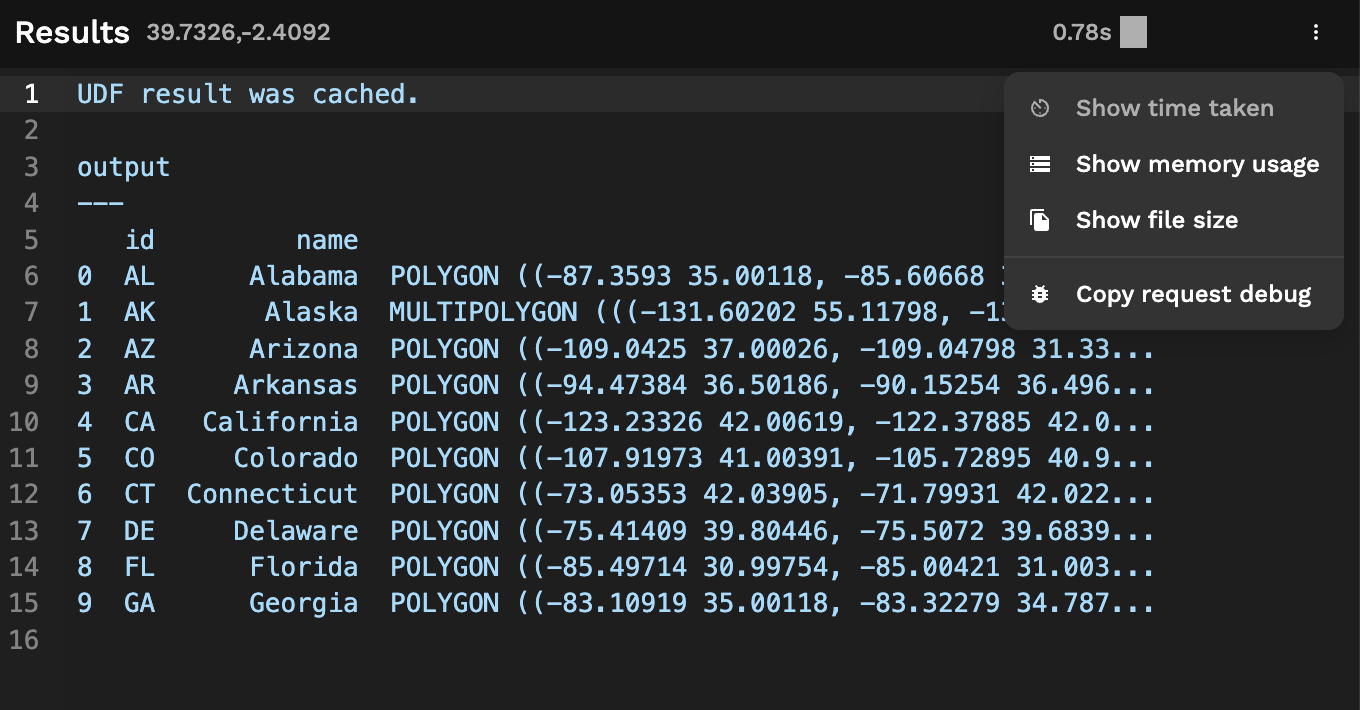
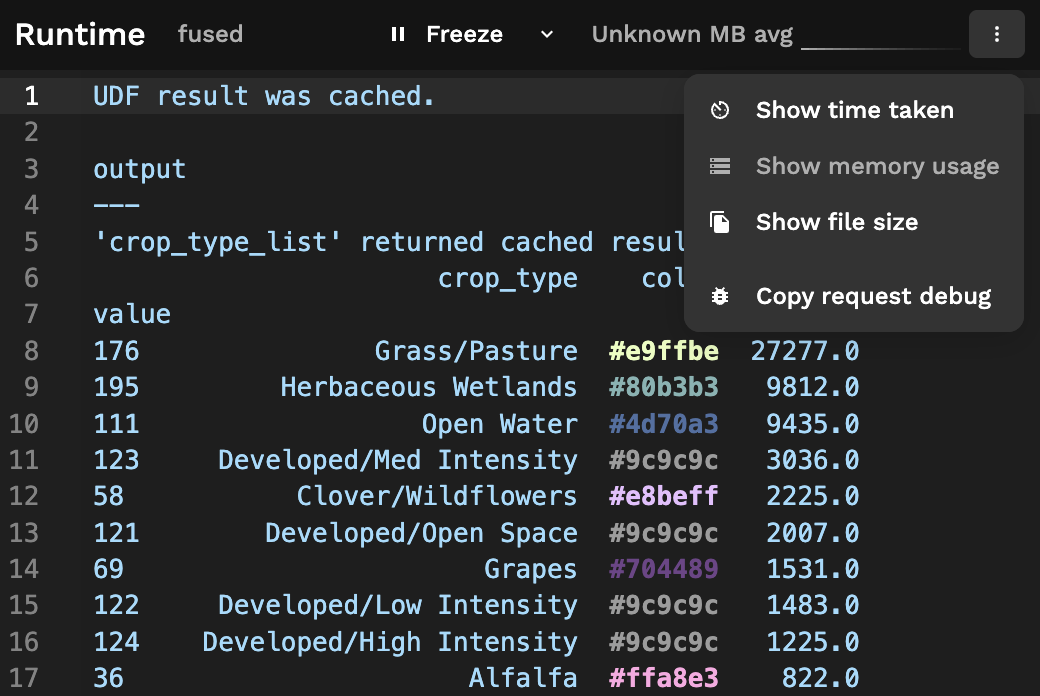
updated map and results pages (#729)
* updated map and results pages

* replace results links with runtime

* one more link replaced

---------

diff --git a/docusaurus.config.ts b/docusaurus.config.ts
@@ -232,8 +232,8 @@ const config: Config = {
           },
           { to: "/workbench/udf-builder/map/", from: ["/workbench/map/"] },
           {
-            to: "/workbench/udf-builder/results/",
-            from: ["/workbench/results/"],
+            to: "/workbench/udf-builder/runtime/",
+            from: ["/workbench/runtime/"],
           },
           {
             to: "/workbench/udf-builder/styling/",
